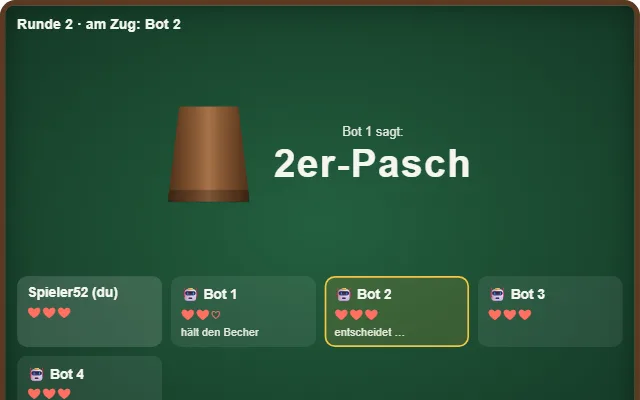
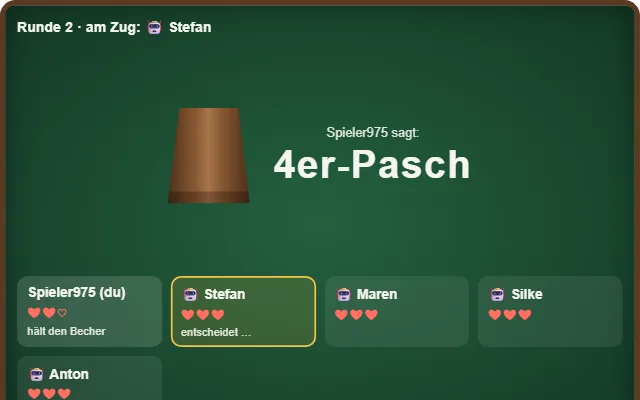
Bots mit zufälligen deutschen Vornamen (🤖 Lena …)
- server/bot-names.js: pickBotNames, eindeutig, ohne Namen echter Spieler
- Revierkampf, Schocken, Mäxchen nutzen ihn; 🤖 ist Teil des Namens
- Vorschaubilder neu aufgenommen, Tests ergänzt

diff --git a/server/bot-names.js b/server/bot-names.js
@@ -1,0 +1,53 @@
+"use strict";
+
+/**
+ * Namen für Bots: zufällige deutsche Vornamen mit vorangestelltem 🤖.
+ *
+ * Das 🤖 ist Teil des Namens, damit Bots überall – Platzkarten, Protokoll,
+ * Ranglisten, Spielkarten – sofort von echten Spielern zu unterscheiden sind,
+ * ohne dass jedes Spiel es selbst voranstellen muss.
+ *
+ * Verwendung in einem Spiel (games/<id>/game.js):
+ *   const { pickBotNames } = require("../../server/bot-names");
+ *   const names = pickBotNames(botCount, humans.map(h => h.name));
+ */
+
+const crypto = require("crypto");
+
+const BOT_PREFIX = "🤖 ";
+
+/** Gängige deutsche Vornamen, höchstens 7 Zeichen (passen auf die Revierkampf-Karte). */
+const FIRST_NAMES = Object.freeze([
+    "Anna", "Lena", "Mia", "Emma", "Hannah", "Lea", "Sophie", "Marie", "Clara", "Lina",
+    "Ella", "Laura", "Julia", "Sarah", "Lisa", "Nina", "Paula", "Greta", "Frieda", "Ida",
+    "Jana", "Katrin", "Sabine", "Petra", "Heike", "Anja", "Silke", "Ute", "Maren", "Tanja",
+    "Paul", "Jonas", "Lukas", "Felix", "Leon", "Max", "Ben", "Finn", "Elias", "Noah",
+    "Moritz", "Jakob", "Emil", "Anton", "Theo", "Karl", "Oskar", "David", "Tim", "Jan",
+    "Thomas", "Michael", "Stefan", "Andreas", "Markus", "Frank", "Jürgen", "Uwe", "Dirk", "Sven"
+]);
+
+/**
+ * Liefert `count` verschiedene, zufällige Bot-Namen wie "🤖 Lena".
+ * Vornamen, die schon vergeben sind (z. B. echte Spieler), werden ausgelassen.
+ * @param {number} count
+ * @param {string[]} [takenNames]
+ * @returns {string[]}
+ */
+function pickBotNames(count, takenNames = []) {
+    const taken = new Set(takenNames.map(name => name.trim().toLowerCase()));
+    const pool = FIRST_NAMES.filter(name => !taken.has(name.toLowerCase()));
+
+    // Teilweises Fisher-Yates-Mischen: die ersten `count` Einträge sind zufällig gewählt.
+    const picked = Math.min(count, pool.length);
+    for (let i = 0; i < picked; i++) {
+        const j = crypto.randomInt(i, pool.length);
+        [pool[i], pool[j]] = [pool[j], pool[i]];
+    }
+    const names = pool.slice(0, picked).map(name => BOT_PREFIX + name);
+
+    // Nur theoretisch nötig (mehr Bots als freie Namen): durchnummerieren.
+    for (let i = names.length; i < count; i++) names.push(`${BOT_PREFIX}Bot ${i + 1}`);
+    return names;
+}
+
+module.exports = { pickBotNames, BOT_PREFIX, FIRST_NAMES };

diff --git a/games/revierkampf/game.js b/games/revierkampf/game.js
@@ -19,6 +19,8 @@
  * (siehe dokumentation.md, Abschnitt "Neues Spiel hinzufügen").
  */
 
+const { pickBotNames } = require("../../server/bot-names");
+
 // ===========================================================================
 // Einstellungen
 // ===========================================================================
@@ -487,10 +489,11 @@ function startRound(state, now) {
     const rng = createRng(state.rng);
     const cells = generateMap(rng);
 
+    const botNames = pickBotNames(botCount, humans.map(h => h.name));
     state.players = [
         ...humans.map((member, i) => createPlayer(i, { ...member, bot: false })),
         ...Array.from({ length: botCount }, (_, i) =>
-            createPlayer(humans.length + i, { id: `bot-${i + 1}`, name: `Bot ${i + 1}`, bot: true }))
+            createPlayer(humans.length + i, { id: `bot-${i + 1}`, name: botNames[i], bot: true }))
     ];
 
     // Bots setzen ihren Startpunkt sofort – so sehen Menschen, wo schon jemand ist.

diff --git a/games/schocken/game.js b/games/schocken/game.js
@@ -27,6 +27,7 @@
  */
 
 const crypto = require("crypto");
+const { pickBotNames } = require("../../server/bot-names");
 
 // ===========================================================================
 // Einstellungen
@@ -433,10 +434,11 @@ function startMatch(state, now) {
         throw new Error("Schocken braucht mindestens 2 Teilnehmer – füge Bots hinzu.");
     }
 
+    const botNames = pickBotNames(botCount, humans.map(h => h.name));
     state.participants = [
         ...humans.map(m => ({ id: m.id, name: m.name, bot: false, chips: 0, marker: false, left: false })),
         ...Array.from({ length: botCount }, (_, i) => ({
-            id: `bot-${i + 1}`, name: `Bot ${i + 1}`, bot: true, chips: 0, marker: false, left: false
+            id: `bot-${i + 1}`, name: botNames[i], bot: true, chips: 0, marker: false, left: false
         }))
     ];
     state.phase = "playing";

diff --git a/games/maexchen/game.js b/games/maexchen/game.js
@@ -24,6 +24,7 @@
  */
 
 const crypto = require("crypto");
+const { pickBotNames } = require("../../server/bot-names");
 
 // ===========================================================================
 // Einstellungen
@@ -315,7 +316,8 @@ function finishMatch(state, winnerId, note) {
 
 function startMatch(state, now) {
     const humans = state.members.map(m => ({ id: m.id, name: m.name, bot: false }));
-    const bots = Array.from({ length: state.settings.bots }, (_, i) => ({ id: `bot-${i + 1}`, name: `Bot ${i + 1}`, bot: true }));
+    const botNames = pickBotNames(state.settings.bots, humans.map(h => h.name));
+    const bots = botNames.map((name, i) => ({ id: `bot-${i + 1}`, name, bot: true }));
     const all = [...humans, ...bots].slice(0, MAX_PARTICIPANTS);
     if (all.length < 2) throw new Error("Es werden mindestens 2 Teilnehmer gebraucht – füge Bots hinzu.");
 

diff --git a/games/schocken/public/client.js b/games/schocken/public/client.js
@@ -282,7 +282,7 @@ export function mount(container, ctx) {
 
             // Kopfzeile: Name, Markierung, Deckel
             const top = createElement("div", "sk-seat-top");
-            const name = createElement("span", "sk-seat-name", (p.bot ? "🤖 " : "") + p.name + (p.id === ctx.me.id ? " (du)" : ""));
+            const name = createElement("span", "sk-seat-name", p.name +(p.id === ctx.me.id ? " (du)" : ""));
             top.append(name);
             if (p.marker) {
                 const marker = createElement("span", "sk-marker", "M");

diff --git a/games/maexchen/public/client.js b/games/maexchen/public/client.js
@@ -260,7 +260,7 @@ export function mount(container, ctx) {
 
             const top = createElement("div", "mx-seat-top");
             const name = createElement("span", "mx-seat-name",
-                `${participant.bot ? "🤖 " : ""}${participant.name}${participant.id === ctx.me.id ? " (du)" : ""}`);
+                `${participant.name}${participant.id === ctx.me.id ? " (du)" : ""}`); // Bots: "🤖 Name" vom Server
             top.append(name);
 
             const lives = createElement("span", "mx-lives");
